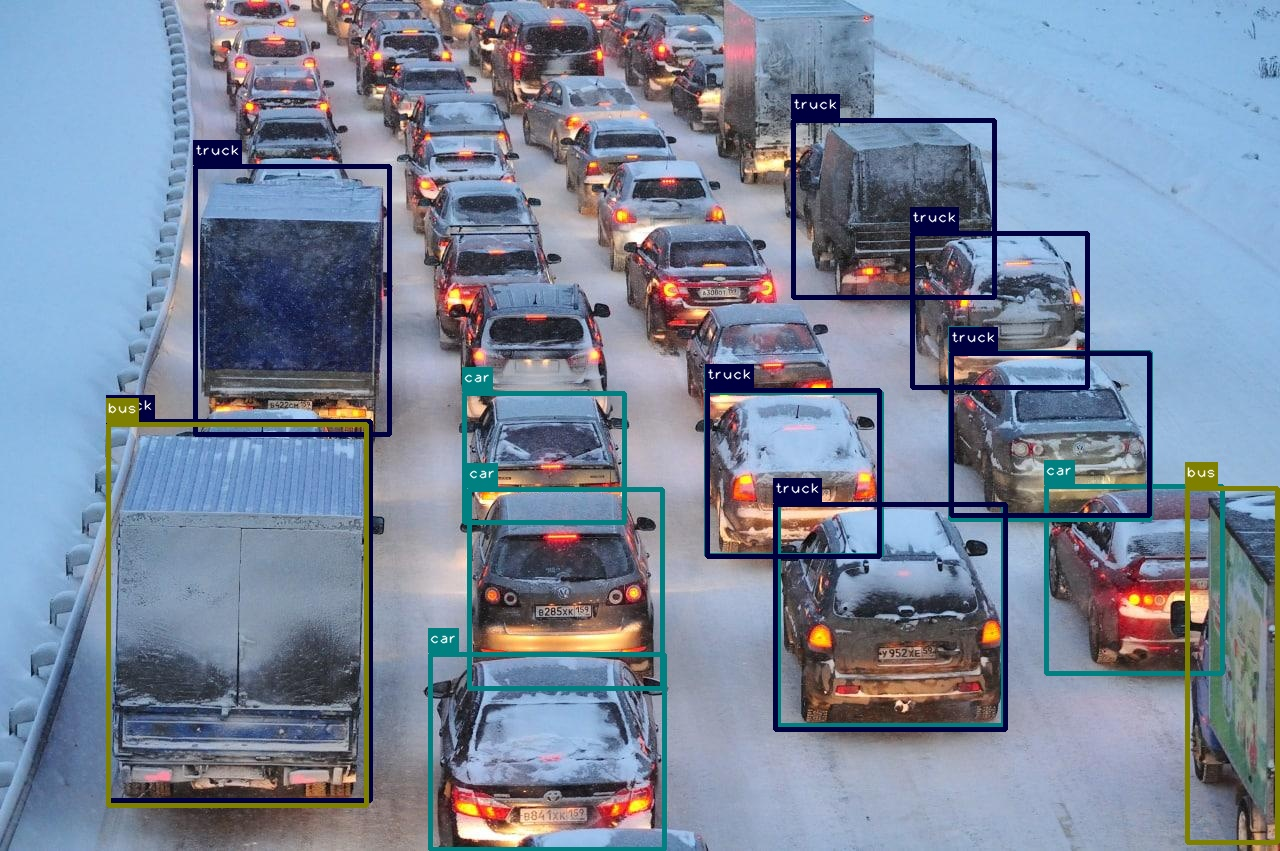
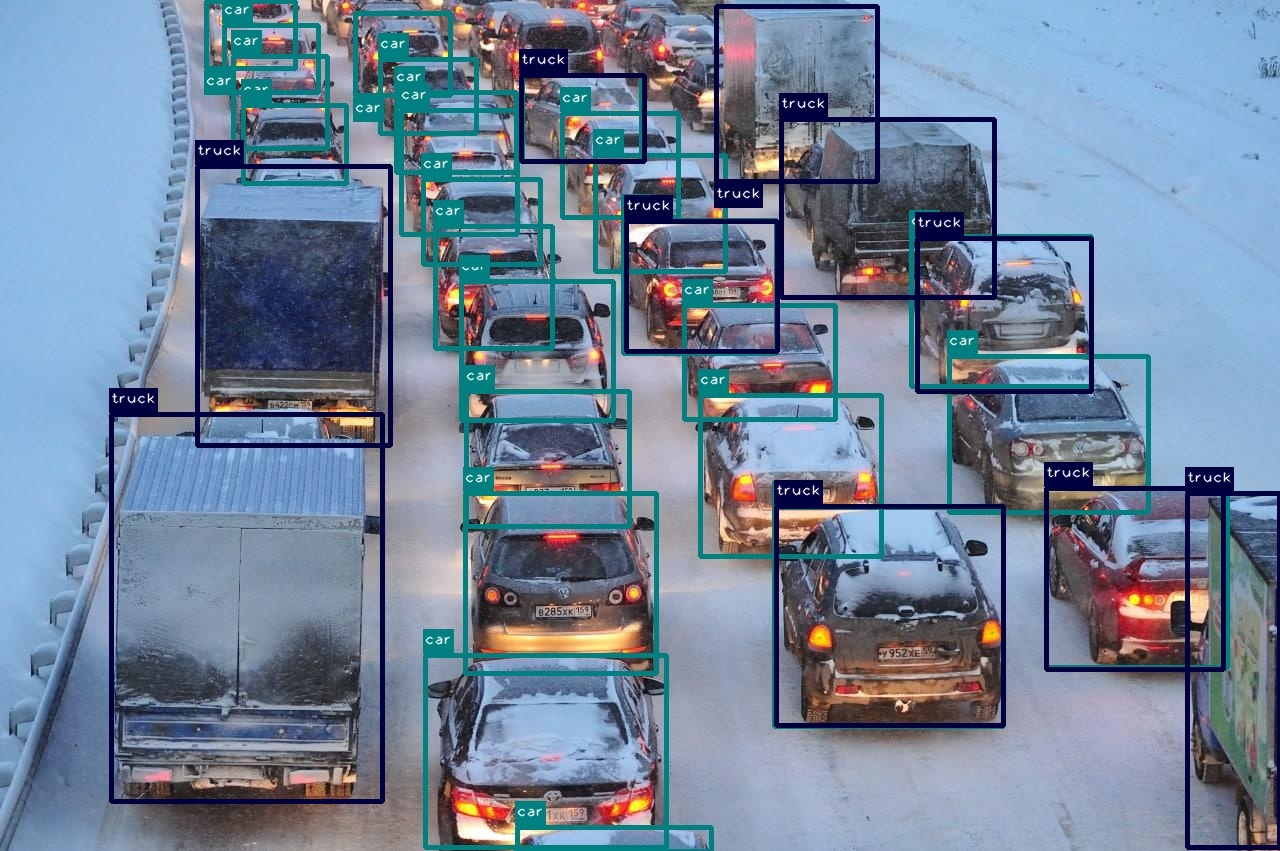
Сделать 640 (DAMO-YOLO) основным вариантом Hailo, упростить README

Changed region(s): [[0.0625, 0.0, 1.0, 1.0], [0.125, 0.275, 0.1562, 0.3361]]

diff --git a/benchmark_hailo.py b/benchmark_hailo.py
@@ -1,4 +1,4 @@
-"""Замер скорости инференса YOLO на ускорителе Hailo-8L (DeGirum): среднее время и FPS."""
+"""Замер скорости детекции на Hailo-8L при входе 640x640 (DeGirum) — для сравнения с CPU 640."""
 
 import platform
 import time
@@ -7,9 +7,9 @@ from pathlib import Path
 import degirum as dg
 
 INPUT = "images/input.jpg"
-MODEL = "yolov8s_coco--320x320_quant_hailort_hailo8l_1"
-RUNS = 50
-WARMUP = 5  # прогоны на разогрев, в статистику не идут
+MODEL = "damoyolo_tinynasL35_M--640x640_quant_hailort_hailo8l_1"
+RUNS = 20
+WARMUP = 3  # прогоны на разогрев, в статистику не идут
 
 Path("results").mkdir(exist_ok=True)
 token = Path("degirum_token.txt").read_text().strip()
@@ -33,10 +33,10 @@ for _ in range(RUNS):
 
 avg_s = sum(times) / len(times)
 
-report = f"""Замер скорости YOLOv8s на Hailo-8L (ускоритель)
+report = f"""Замер скорости DAMO-YOLO 640x640 на Hailo-8L (ускоритель)
 =================================================
 Машина:        {platform.node()} ({platform.machine()})
-Модель:        YOLOv8s COCO 320x320 (Hailo-8L)
+Модель:        DAMO-YOLO M, 640x640 (Hailo-8L)
 Картинка:      {INPUT}
 Прогонов:      {RUNS} (+{WARMUP} на разогрев)
 

diff --git a/detect_hailo.py b/detect_hailo.py
@@ -1,4 +1,4 @@
-"""Распознавание объектов на картинке с помощью YOLO на ускорителе Hailo-8L (DeGirum)."""
+"""Детекция на картинке через DAMO-YOLO 640x640 на ускорителе Hailo-8L (DeGirum)."""
 
 from pathlib import Path
 
@@ -6,7 +6,7 @@ import degirum as dg
 
 INPUT = "images/input.jpg"
 OUTPUT = "results/hailo.jpg"
-MODEL = "yolov8s_coco--320x320_quant_hailort_hailo8l_1"
+MODEL = "damoyolo_tinynasL35_M--640x640_quant_hailort_hailo8l_1"
 
 Path("results").mkdir(exist_ok=True)
 token = Path("degirum_token.txt").read_text().strip()

diff --git a/README.md b/README.md
@@ -1,78 +1,45 @@
-# YOLO на Raspberry Pi 5: CPU vs AI-ускоритель Hailo
+# YOLO на Raspberry Pi 5: CPU vs Hailo
 
-Проверка работы детекции объектов **YOLO** на одноплатном компьютере
-**Raspberry Pi 5** в двух режимах и **сравнение их скорости**:
+Запустил детекцию объектов YOLO на Raspberry Pi 5 двумя способами — на **CPU** и на
+AI-ускорителе **Hailo-8L** — и сравнил скорость при одинаковом разрешении 640×640.
 
-1. **CPU** — модель YOLOv11n через Ultralytics (без ускорителя).
-2. **NPU** — модель YOLOv8s на AI-ускорителе **Hailo-8L** (Raspberry Pi AI Kit).
+**Итог: на ускорителе ~3.7× быстрее, и объектов находит больше.**
 
-Камера не использовалась — распознавание на готовых изображениях и видео.
-Главный результат — **ускоритель Hailo даёт ~13× прирост скорости** относительно CPU.
+## Железо
 
-## Стек и железо
+- Raspberry Pi 5, 8 GB
+- AI-ускоритель Hailo-8L (Raspberry Pi AI Kit, 13 TOPS)
+- Без камеры — распознавание на готовых картинках
 
-| Компонент      | Значение                                       |
-|----------------|------------------------------------------------|
-| Плата          | Raspberry Pi 5, 8 GB LPDDR4X                   |
-| Процессор      | Broadcom BCM2712, 4×Cortex-A76 (aarch64)       |
-| AI-ускоритель  | Hailo-8L, 13 TOPS (Raspberry Pi AI Kit, M.2)   |
-| ОС             | Raspberry Pi OS (64-bit, Debian)               |
-| CPU-инференс   | YOLOv11n, Ultralytics 8.4.x, PyTorch (CPU)     |
-| NPU-инференс   | YOLOv8s, DeGirum PySDK + HailoRT 4.23          |
+## Результат
 
-## Структура проекта
+Одно фото (зимняя пробка), вход 640×640:
 
-```
-.
-├── README.md            — описание проекта (этот файл)
-├── detect.py            — детекция на картинке (CPU)
-├── benchmark.py         — замер скорости (CPU)
-├── detect_hailo.py      — детекция на картинке (Hailo, 320×320)
-├── detect_hailo_640.py  — детекция на картинке (Hailo, 640×640)
-├── benchmark_hailo.py   — замер скорости (Hailo, 320×320)
-├── benchmark_hailo_640.py — замер скорости (Hailo, 640×640)
-├── video_hailo.py       — детекция на видео (Hailo) + FPS
-├── requirements.txt     — зависимости
-├── images/input.jpg     — исходная картинка
-├── videos/              — исходные видео
-└── results/
-    ├── input.jpg          — картинка с рамками (CPU)
-    ├── benchmark.txt      — отчёт о замере (CPU)
-    ├── hailo.jpg          — картинка с рамками (Hailo 320)
-    ├── hailo_640.jpg      — картинка с рамками (Hailo 640)
-    ├── benchmark_hailo.txt — отчёт о замере (Hailo 320)
-    └── benchmark_hailo_640.txt — отчёт о замере (Hailo 640)
-```
+| | CPU — YOLOv11n | Hailo — DAMO-YOLO |
+|---|---|---|
+| Скорость | 2.7 FPS (371 мс) | **10 FPS (100 мс)** |
+| Найдено объектов | 21 | **35** |
+
+| CPU | Hailo |
+|---|---|
+| ![CPU](results/input.jpg) | ![Hailo](results/hailo.jpg) |
+
+Замеры: [results/benchmark.txt](results/benchmark.txt) (CPU),
+[results/benchmark_hailo.txt](results/benchmark_hailo.txt) (Hailo).
 
 ## Установка
 
-### Часть 1 — CPU (Ultralytics)
 ```bash
-sudo apt update
+# Система + окружение
 sudo apt install -y python3-pip python3-venv libgl1
-python3 -m venv yolo
-source yolo/bin/activate
+python3 -m venv yolo && source yolo/bin/activate
 
-# PyTorch в CPU-версии (важно для Pi — без CUDA-пакетов NVIDIA)
+# CPU: PyTorch обязательно из CPU-репозитория (иначе тянет ненужные CUDA-пакеты)
 pip install torch torchvision --index-url https://download.pytorch.org/whl/cpu
 pip install ultralytics
-```
 
-> **Важно:** на Raspberry Pi PyTorch нужно ставить именно из CPU-репозитория —
-> обычная установка тянет гигабайтные CUDA-пакеты NVIDIA, бесполезные на Pi.
-
-### Часть 2 — AI-ускоритель Hailo
-```bash
-# Софт Hailo (драйвер + рантайм)
-sudo apt install -y hailo-all
-sudo raspi-config   # Advanced → PCIe Speed → Gen 3
-sudo reboot
-
-# Проверка, что ускоритель виден
-hailortcli fw-control identify
-
-# Библиотека для запуска YOLO на Hailo из Python
-source yolo/bin/activate
+# Hailo: драйвер + рантайм, затем библиотека для запуска из Python
+sudo apt install -y hailo-all && sudo reboot
 pip install degirum degirum_tools
 degirum token install --token <ВАШ_ТОКЕН_DEGIRUM>
 ```
@@ -80,56 +47,14 @@ degirum token install --token <ВАШ_ТОКЕН_DEGIRUM>
 ## Запуск
 
 ```bash
-# CPU
-python3 detect.py          # детекция на картинке
-python3 benchmark.py       # замер скорости
-
-# Hailo
-python3 detect_hailo.py    # детекция на картинке
-python3 benchmark_hailo.py # замер скорости
-python3 video_hailo.py     # детекция на видео
+python3 detect.py          # детекция на CPU
+python3 benchmark.py       # замер скорости (CPU)
+python3 detect_hailo.py    # детекция на Hailo
+python3 benchmark_hailo.py # замер скорости (Hailo)
+python3 video_hailo.py     # детекция на видео (Hailo)
 ```
 
-## Результаты
+## Файлы
 
-### Детекция (одно и то же фото — уличная пробка)
-
-| | CPU — YOLOv11n 640 | Hailo — YOLOv8s 320 | Hailo — DAMO-YOLO 640 |
-|---|---|---|---|
-| Найдено объектов | 21 | 16 | 35 |
-| Результат | ![CPU](results/input.jpg) | ![Hailo 320](results/hailo.jpg) | ![Hailo 640](results/hailo_640.jpg) |
-
-> Число найденных объектов зависит в первую очередь от **разрешения входа**:
-> на 320×320 модель видит меньше далёких машин (16), а на 640×640 — заметно больше (35).
-
-### Скорость — главное сравнение
-
-| Конфигурация                | Время/картинку | FPS      | Ускорение vs CPU |
-|-----------------------------|----------------|----------|------------------|
-| CPU — YOLOv11n, 640×640     | 371 мс         | 2.70     | 1×               |
-| Hailo — DAMO-YOLO, 640×640  | 100 мс         | 9.96     | **≈ 3.7×**       |
-| Hailo — YOLOv8s, 320×320    | 28.4 мс        | **35.2** | **≈ 13×**        |
-
-- При **одинаковом разрешении 640×640** ускоритель Hailo быстрее CPU примерно в **3.7 раза**.
-- Если перейти на лёгкую модель с входом 320×320 (компромисс по точности),
-  Hailo выдаёт **35 FPS** — в **13 раз** быстрее CPU.
-
-Отчёты: [`results/benchmark.txt`](results/benchmark.txt) (CPU),
-[`results/benchmark_hailo.txt`](results/benchmark_hailo.txt) (Hailo 320),
-[`results/benchmark_hailo_640.txt`](results/benchmark_hailo_640.txt) (Hailo 640).
-
-## Выводы
-
-- YOLO **успешно запускается** на Raspberry Pi 5 и на CPU, и на ускорителе Hailo-8L.
-- На CPU — **2.7 FPS** (≈371 мс/картинку): годится для офлайн-обработки отдельных изображений.
-- При **одинаковом разрешении 640×640** Hailo быстрее CPU в **~3.7 раза** (≈10 FPS против 2.7).
-- С лёгкой моделью 320×320 Hailo выдаёт **35 FPS** (**~13×**) — уже пригодно
-  для видео в реальном времени, ценой небольшого снижения точности.
-- Главный вывод: для задач компьютерного зрения в реальном времени на Raspberry Pi 5
-  **AI-ускоритель даёт принципиальный прирост** по сравнению с одним CPU.
-
-## Возможные улучшения
-
-- Сравнение «одна и та же модель» на CPU и Hailo (например, YOLOv8s в обоих случаях).
-- Замер при одинаковом разрешении входа (640×640) для честного сравнения «как есть».
-- Подключение камеры и детекция в реальном времени.
+`detect*.py` — детекция на картинке, `benchmark*.py` — замер FPS
+(`*_hailo` — версии под ускоритель). Исходники в `images/`, результаты в `results/`.